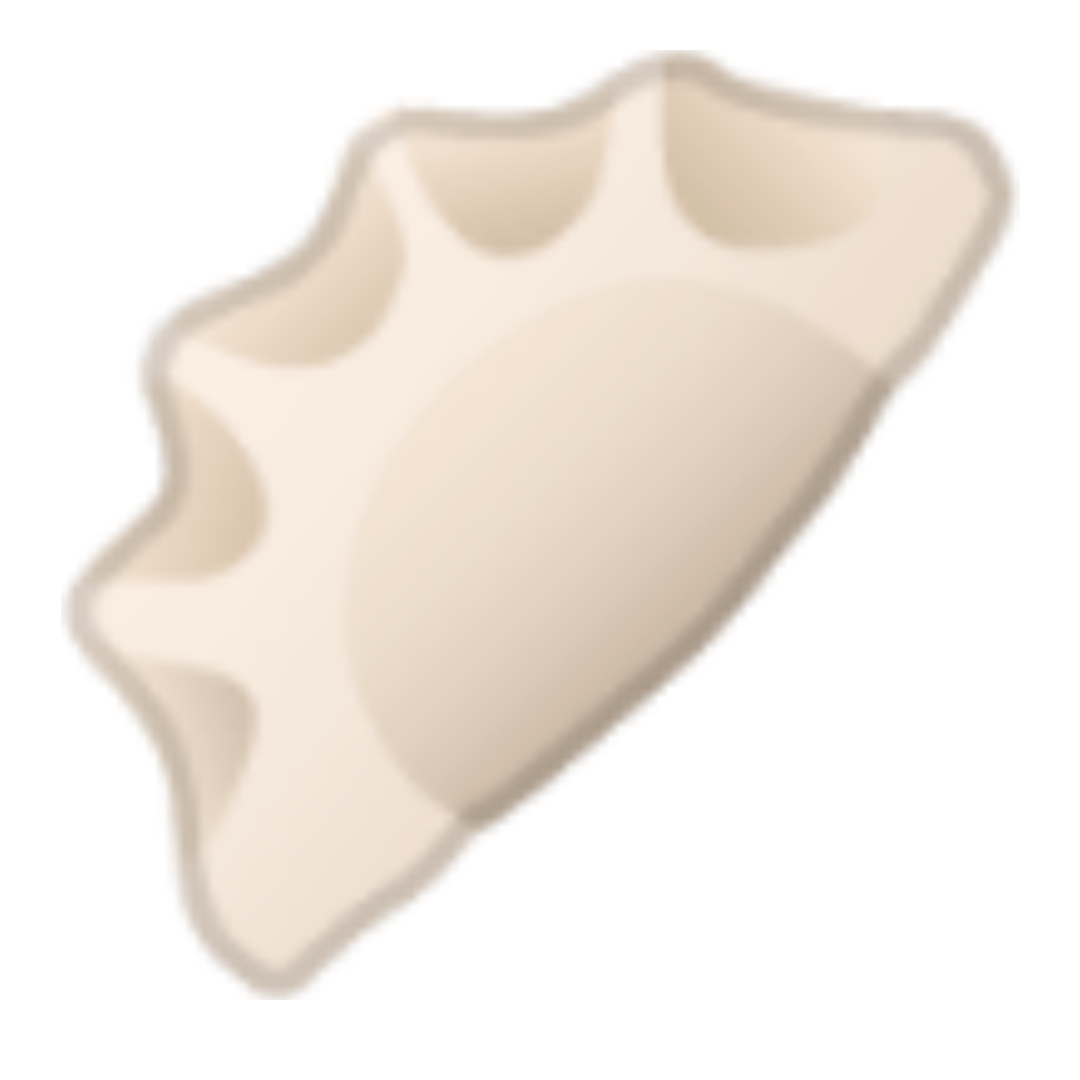
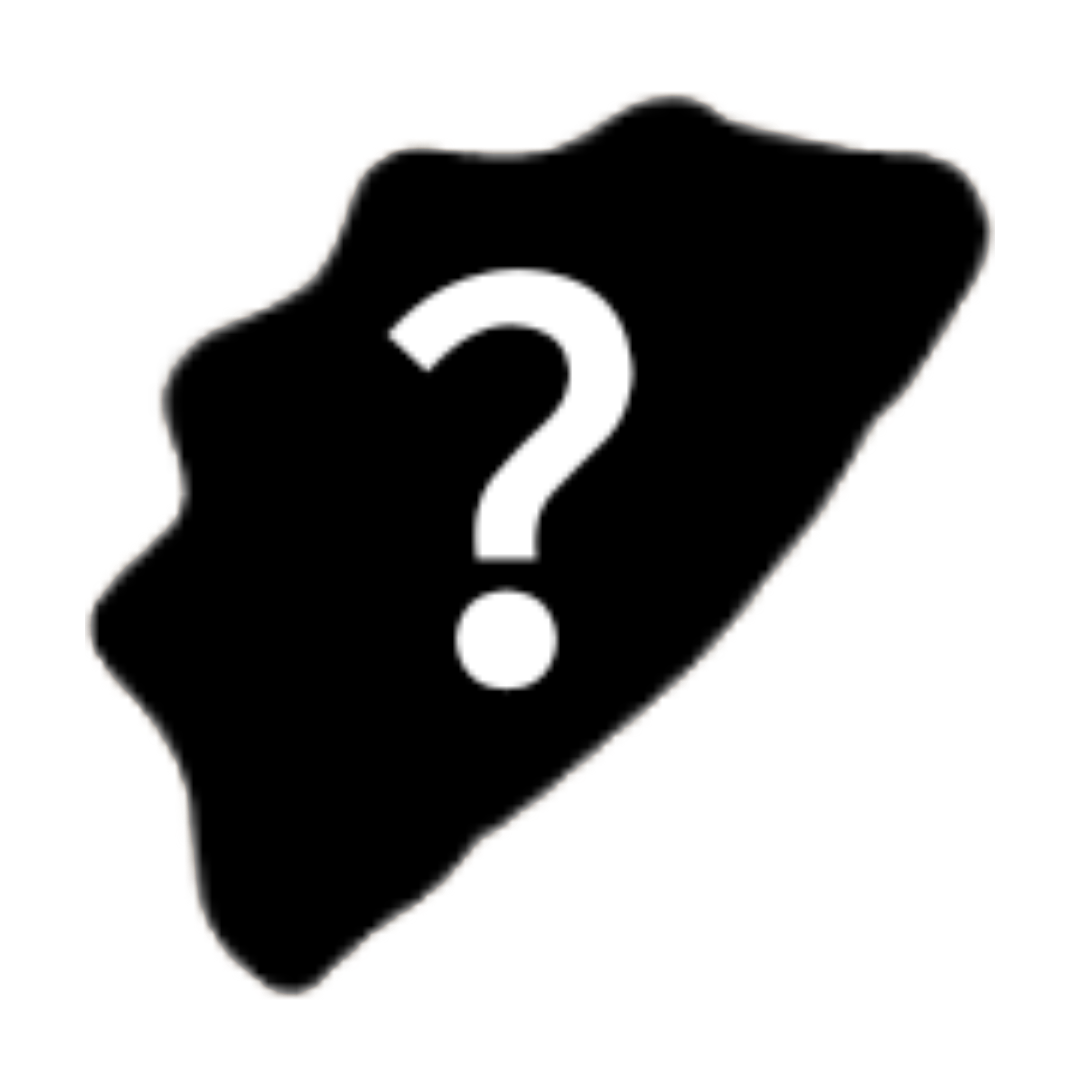
???

diff --git a/core/secret-formula/languages.js b/core/secret-formula/languages.js
@@ -374,7 +374,7 @@ export const languages = {
       chall2: "饺子币的获取量大幅下降。",
       chall3: "自动购买饺子皮，并且饺子皮的效果提高饺子馅的价格",
       chall4: "你不能激活任何收集饺子，制造器的效果$2。出售的需求提高到$1。",
-      chall5: "你不能激活第三行的饺子。 只有$1的饺子皮有效果。",
+      chall5: "你不能激活第三行的收集饺子。 只有$1的饺子皮有效果。",
       chall6: "你只能购买$1个饺子馅，但收集重置次数加成制造器。",
       chall7: "你只能激活$1个收集饺子，购买制造器或饺子皮时，其它制造器或饺子皮效果大幅削弱。",
       chall8: "制造器乘数的指数$1。",
@@ -888,7 +888,7 @@ export const languages = {
       takeaway_mixtures: "Requires $1 Mixture Bottles",
       takeaway_wrapper: "Requires $1 Wrappers",
       takeaway_steamer: "Requires $1 Steamer Coins",
-      takeaway_collections: "Requires $1 dumplings with less than $2 Collections",
+      takeaway_collections: "Requires $2 dumplings with less than $1 Collections",
       reviewTemp: "Provide a $1 multplier to $2",
       requirement: "Requirement",
       sa11_n: "Rainbow power",

diff --git a/index.html b/index.html
@@ -5,9 +5,9 @@
   <meta charset="UTF-8">
   <link rel="icon" type="image/png" href="icon.png">
   <meta name="description" content="This game is based on the game #Antimatter Dimensions#.">
-  <meta name="keywords" content="zongzi incremental, 棕子增量">
+  <meta name="keywords" content="zongzi incremental, ？？增量">
   <meta name="viewport" content="width=device-width, initial-scale=1">
-  <title>粽子增量</title>
+  <title>？？增量</title>
   <link rel="stylesheet" type="text/css" href="./stylesheets/ad-slider-component.css">
   <link rel="stylesheet" href="./stylesheets/styles.css">
     <link rel="stylesheet" type="text/css" href="./stylesheets/fontawesome/css/all.css">

diff --git a/core/format.js b/core/format.js
@@ -210,8 +210,8 @@ window.makeEnumeration = function makeEnumeration(items) {
 };
 
 function replaceToZongzi(str) {
-  if (Languages.current.name === "zh-CN")  return str.replaceAll("饺子", "粽子").replaceAll("饺", "粽");
-  return str.replaceAll("Dumpling", "Zongzi").replaceAll("dumpling", "zongzi");
+  if (Languages.current.name === "zh-CN")  return str.replaceAll("饺子", "？？").replaceAll("饺", "？");
+  return str.replaceAll("Dumpling", "??").replaceAll("dumpling", "??");
 }
 
 window.$t = function $t(key, values, piural) {

diff --git a/core/secret-formula/steamer/tasks.js b/core/secret-formula/steamer/tasks.js
@@ -58,7 +58,7 @@ export const tasks = {
     condition: () => Collections.activeAmount < 4,
     cap: 3,
     reward: {
-      description: "可同时激活更多饺子",
+      description: "可同时激活更多收集",
       effectFn: count => count,
       formatEffect: value => `+${formatInt(value)}`
     }
